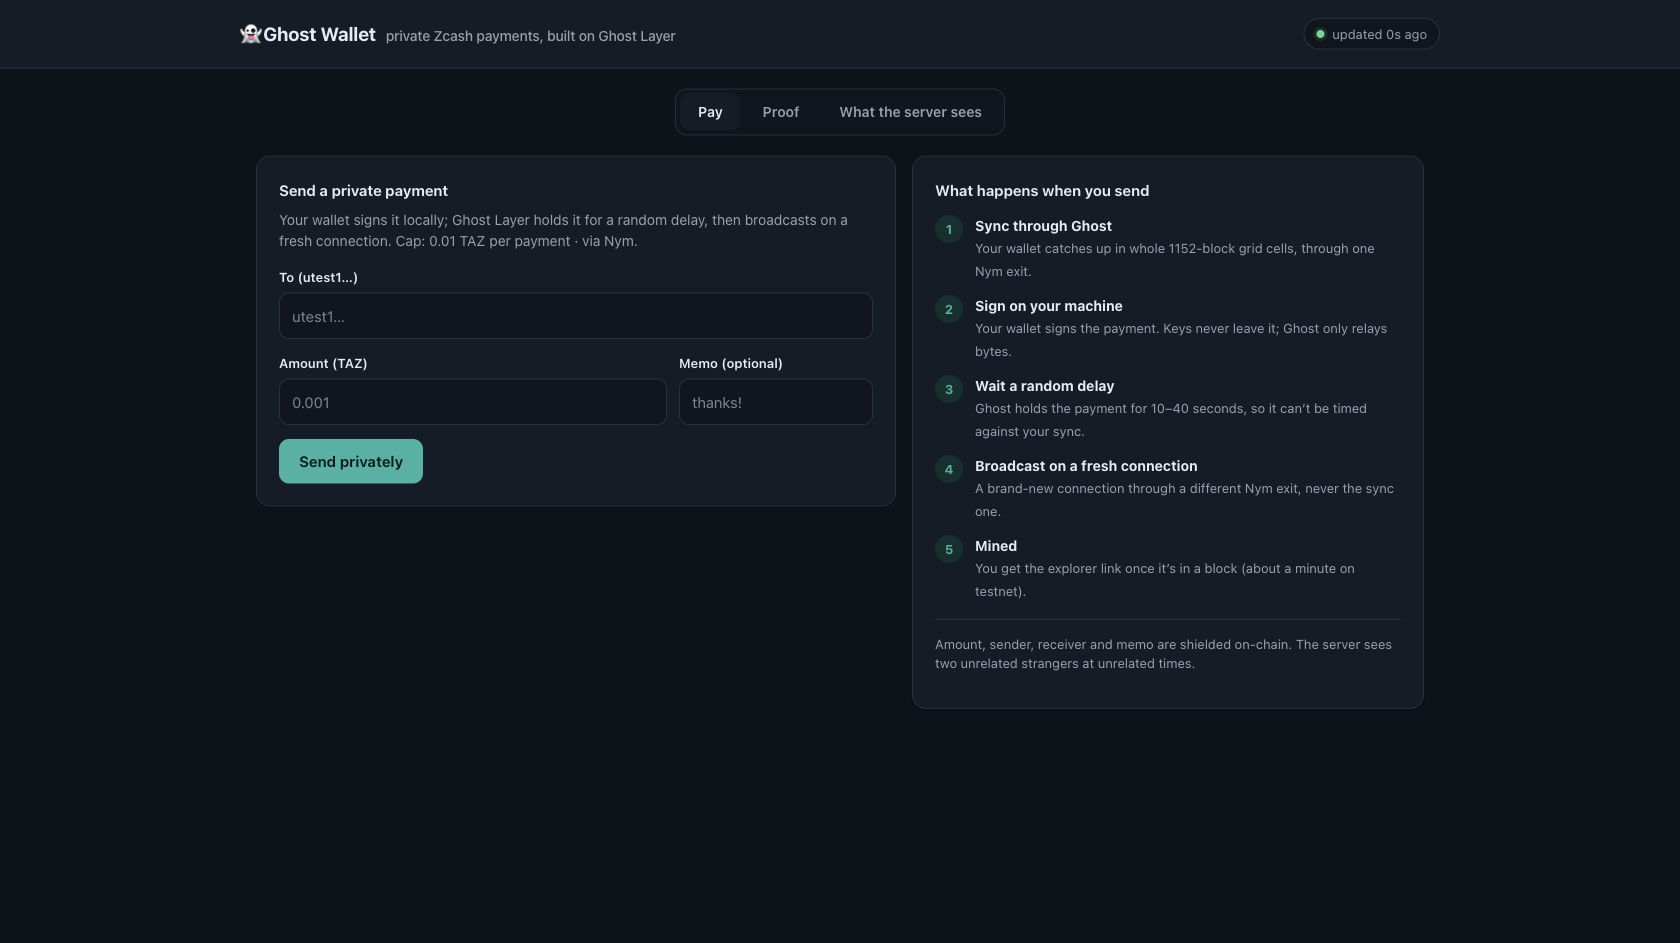
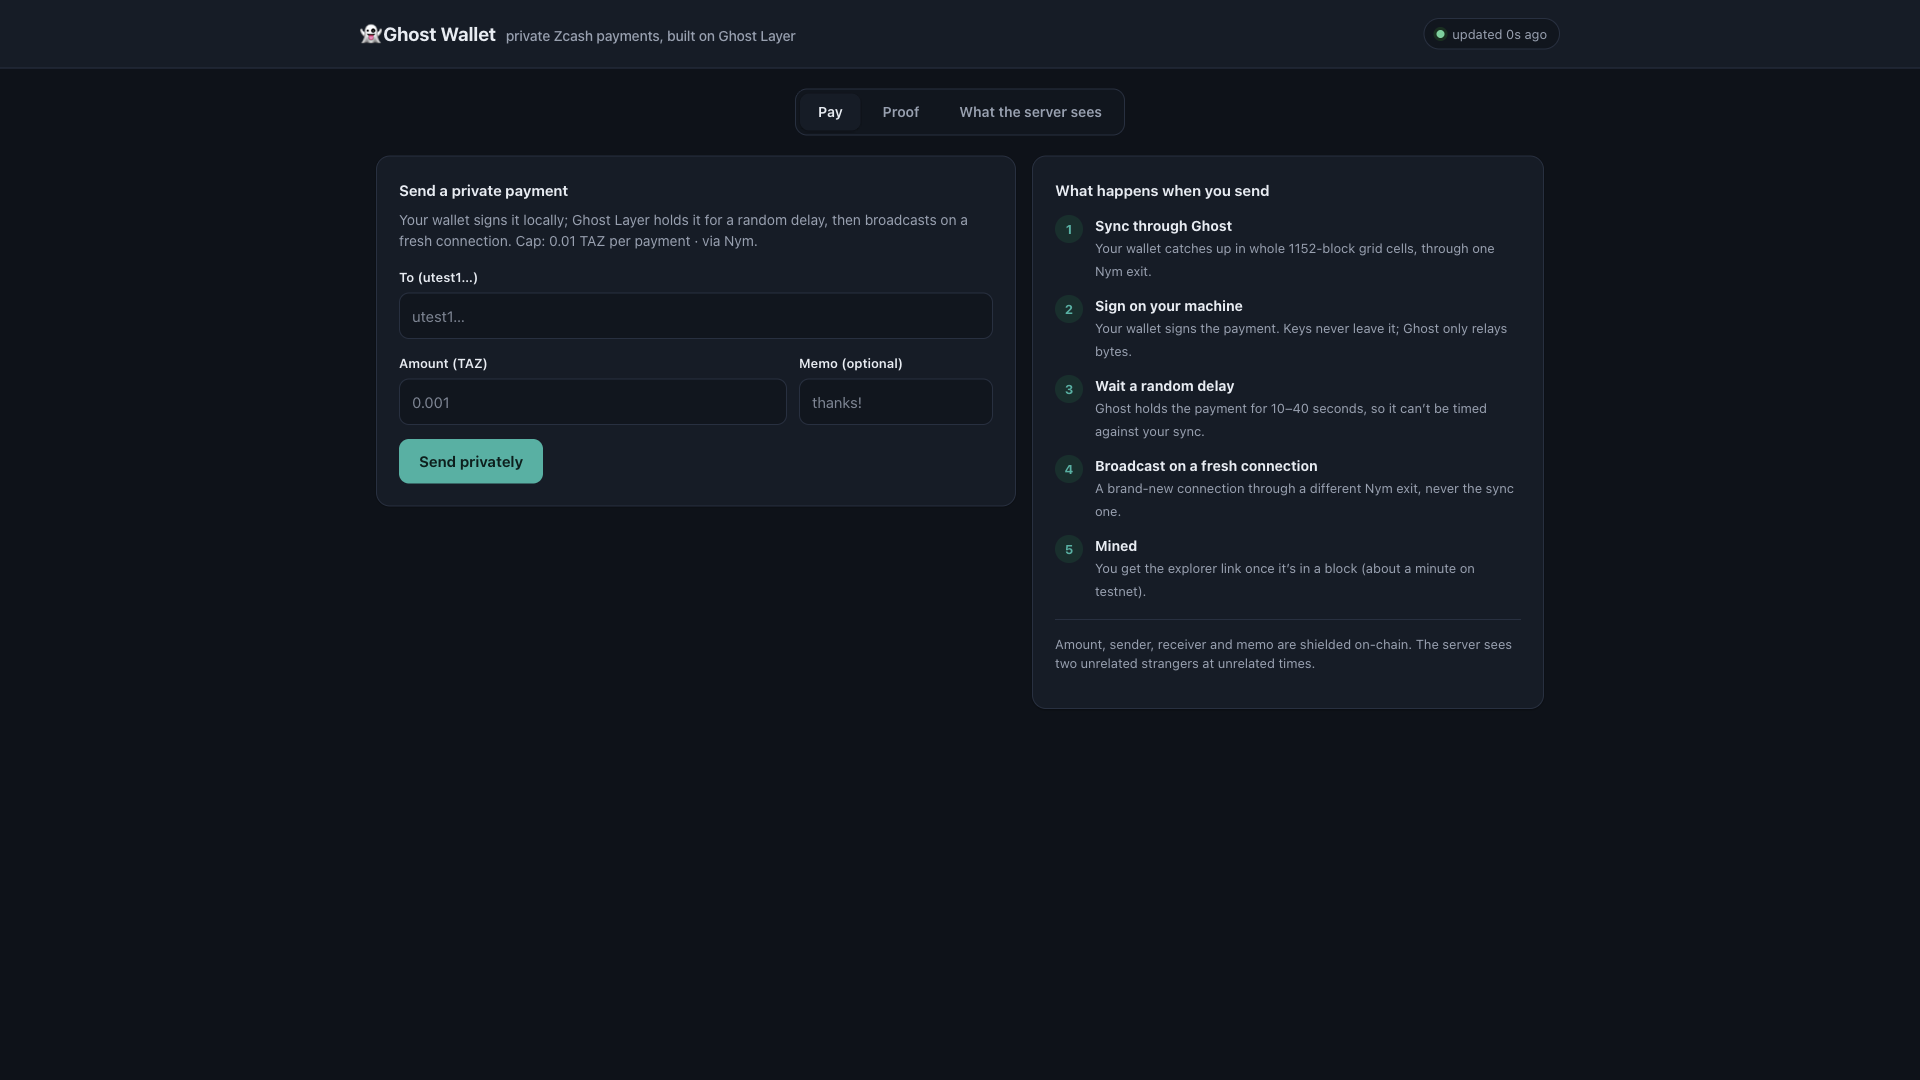
Ghost Wallet Live view: results first, one-line IPs, scrolling queue, neutral zero

diff --git a/crates/ghost-cli/src/dashboard.html b/crates/ghost-cli/src/dashboard.html
@@ -113,6 +113,18 @@ ol.steps b { display: block; font-size: 14px; }
 ol.steps span { color: var(--muted); font-size: 13px; }
 .note { margin-top: 18px; padding-top: 14px; border-top: 1px solid var(--border); font-size: 13px; color: var(--muted); }
 @media (prefers-reduced-motion: no-preference) { nav.tabs button, button.primary { transition: background .15s, color .15s, filter .15s; } }
+
+/* Live view polish */
+main.cards { grid-template-columns: repeat(auto-fit, minmax(min(100%, 360px), 1fr)); align-items: stretch; }
+main.cards .card { display: flex; flex-direction: column; }
+.ips { grid-template-columns: 1fr 1fr; }
+@media (max-width: 520px) { .ips { grid-template-columns: 1fr; } }
+.ip { white-space: nowrap; font-size: 15px; letter-spacing: -.01em; overflow: hidden; text-overflow: ellipsis; }
+#queue, #attacker { max-height: 560px; overflow-y: auto; padding-right: 6px; margin-right: -6px; scrollbar-width: thin; }
+#queue .row { padding: 10px 0; }
+#queue .row .links { margin-top: 2px; }
+#queue .row .muted.small { line-height: 1.45; }
+.big { font-size: 40px; }
 </style>
 </head>
 <body>
@@ -182,28 +194,24 @@ ol.steps span { color: var(--muted); font-size: 13px; }
 
 <main class="cards" id="tab-live">
   <section class="card">
+    <h2>Before vs after</h2>
+    <div id="before"><p class="muted">loading…</p></div>
+  </section>
+  <section class="card">
     <h2>What the server sees</h2>
     <div id="sees"><p class="muted">loading…</p></div>
   </section>
-
-  <section class="card">
-    <h2>Broadcast queue</h2>
-    <div id="queue"><p class="muted">loading…</p></div>
-  </section>
-
-  <section class="card">
-    <h2>Sync grid</h2>
-    <div id="grid"><p class="muted">loading…</p></div>
-  </section>
-
   <section class="card">
     <h2>Attacker view</h2>
     <div id="attacker"><p class="muted">loading…</p></div>
   </section>
-
   <section class="card">
-    <h2>Before vs after</h2>
-    <div id="before"><p class="muted">loading…</p></div>
+    <h2>Broadcast queue</h2>
+    <div id="queue"><p class="muted">loading…</p></div>
+  </section>
+  <section class="card">
+    <h2>Sync grid</h2>
+    <div id="grid"><p class="muted">loading…</p></div>
   </section>
 </main>
 
@@ -368,7 +376,7 @@ ol.steps span { color: var(--muted); font-size: 13px; }
 
     add(box, add(el('div', 'counts'),
       add(el('div'), el('div', 'big good', num(g.aligned)), el('div', 'muted small', 'aligned')),
-      add(el('div'), el('div', 'big bad', num(g.unaligned)), el('div', 'muted small', 'unaligned'))));
+      add(el('div'), el('div', 'big ' + (g.unaligned > 0 ? 'bad' : 'muted'), num(g.unaligned)), el('div', 'muted small', 'unaligned'))));
 
     var ranges = Array.isArray(g.ranges) ? g.ranges.slice(-10).reverse() : [];
     if (!ranges.length) { add(box, placeholder('no ranges yet')); return; }
